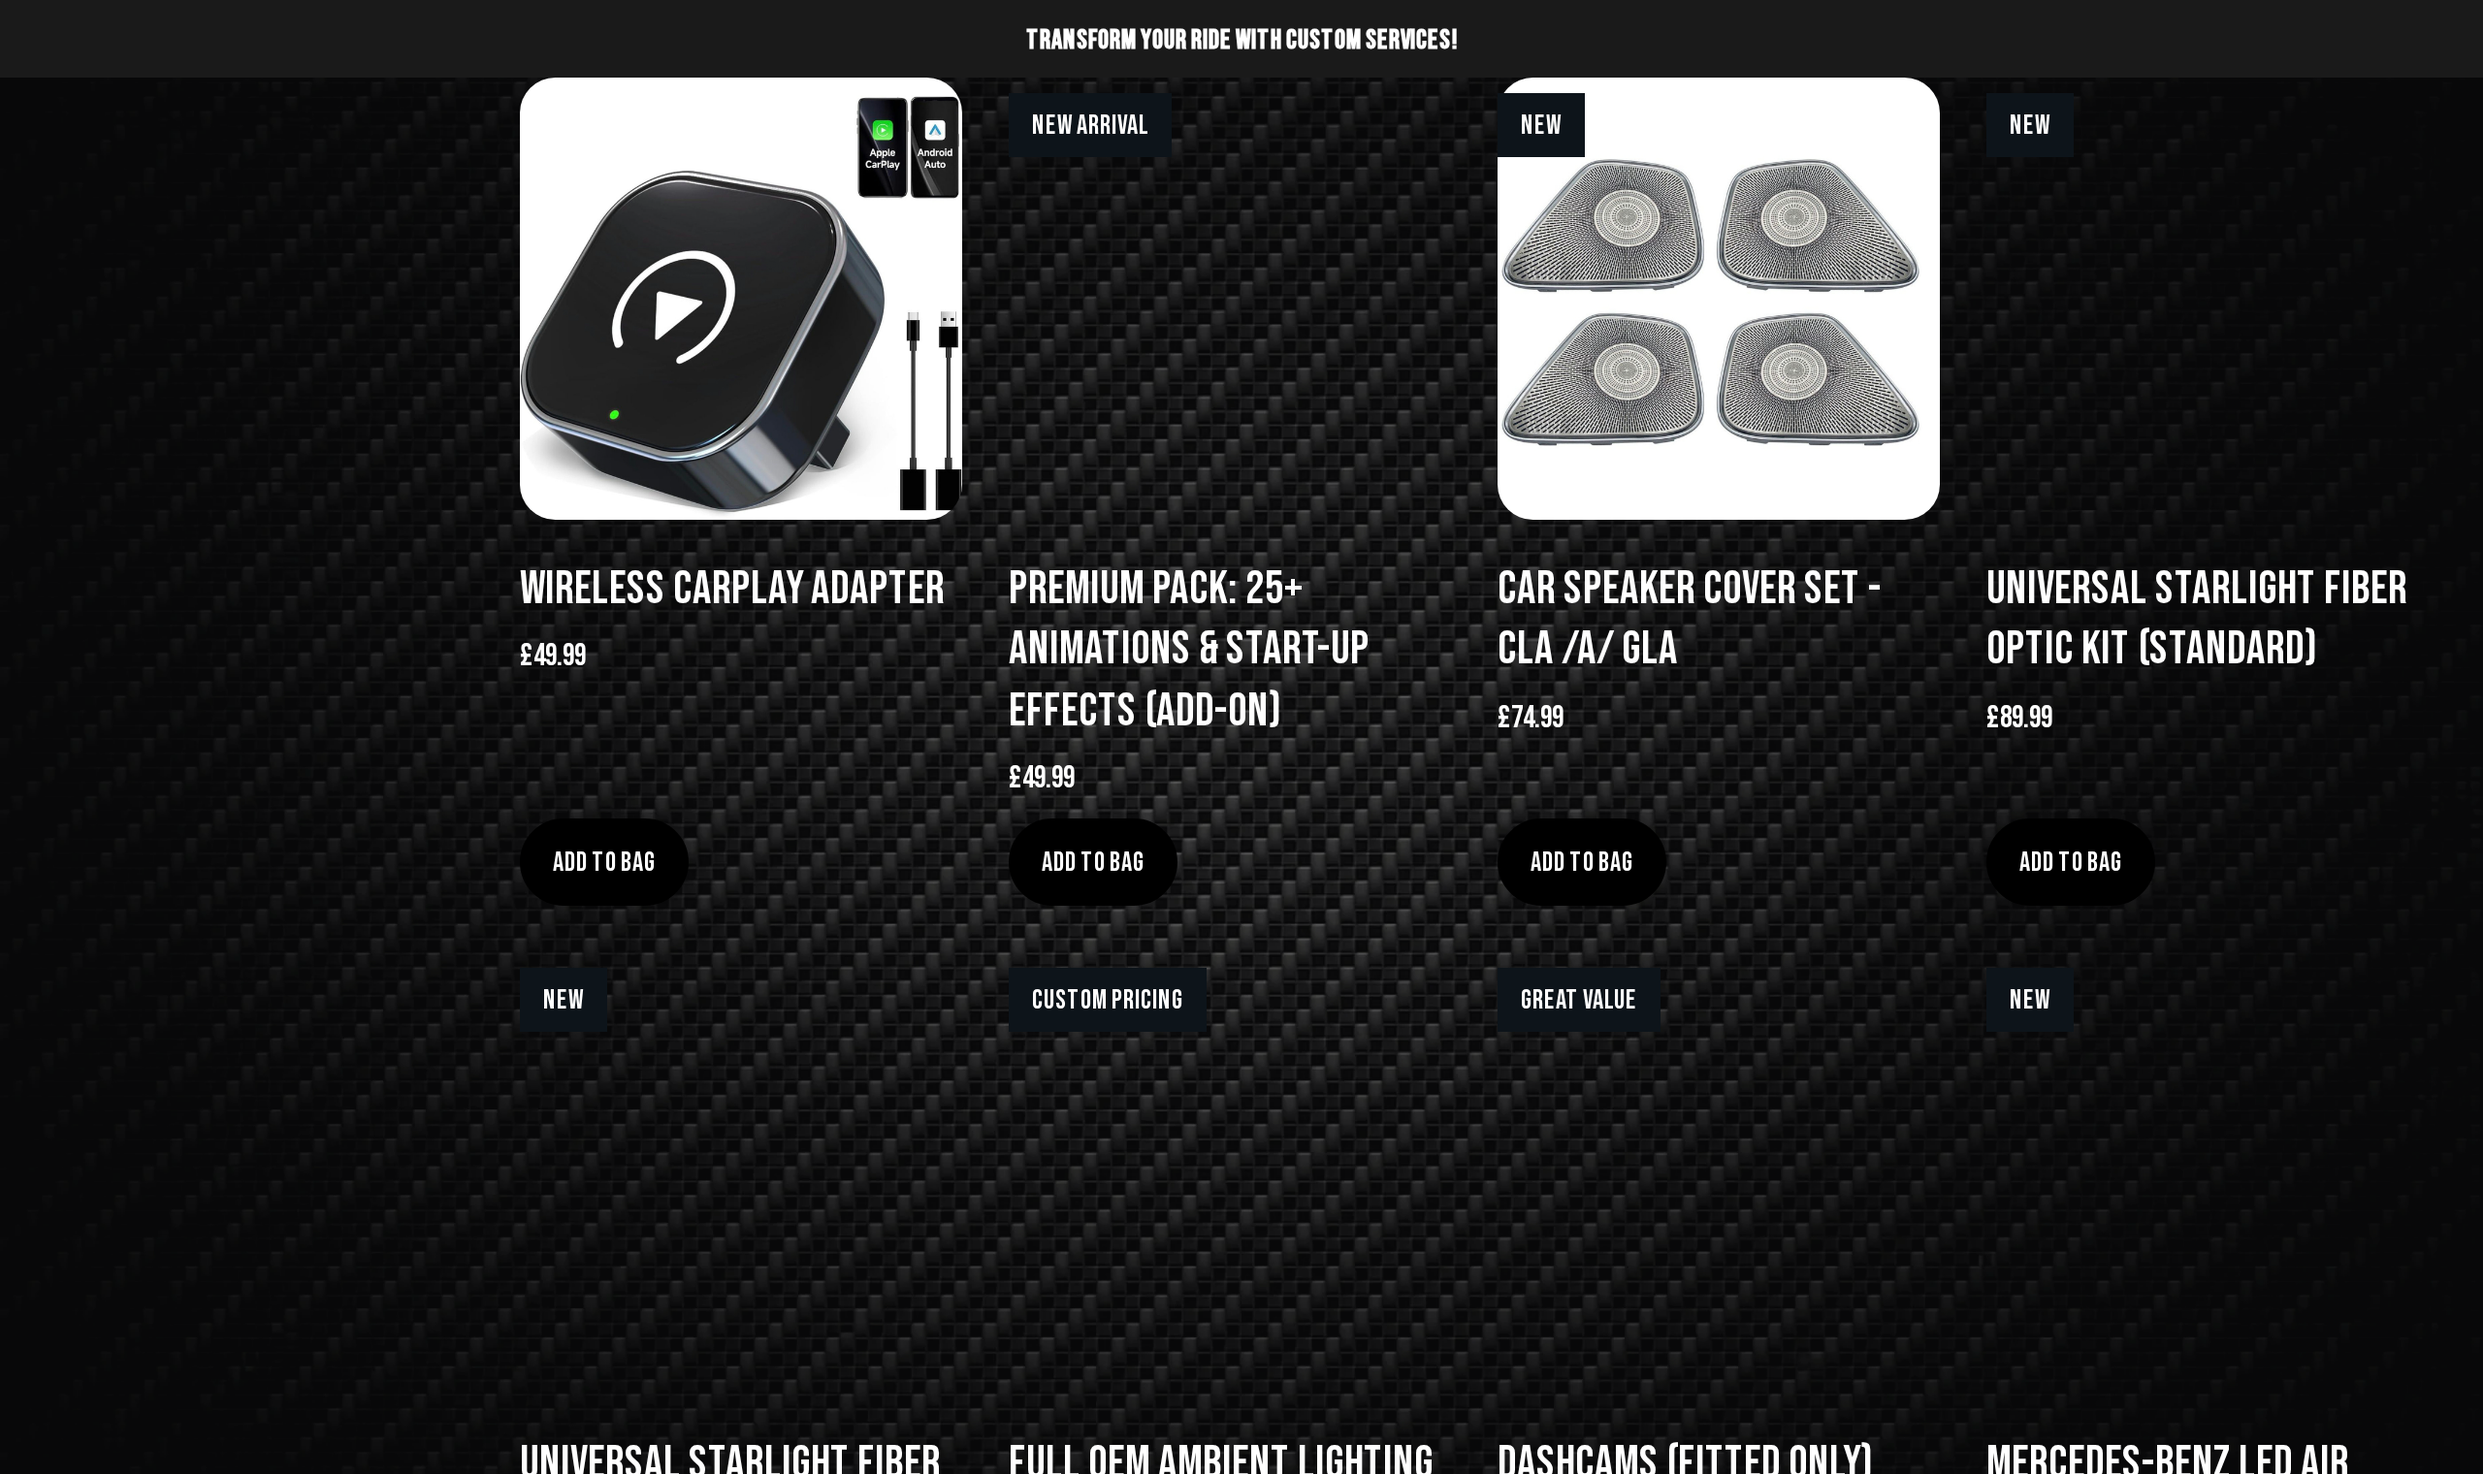
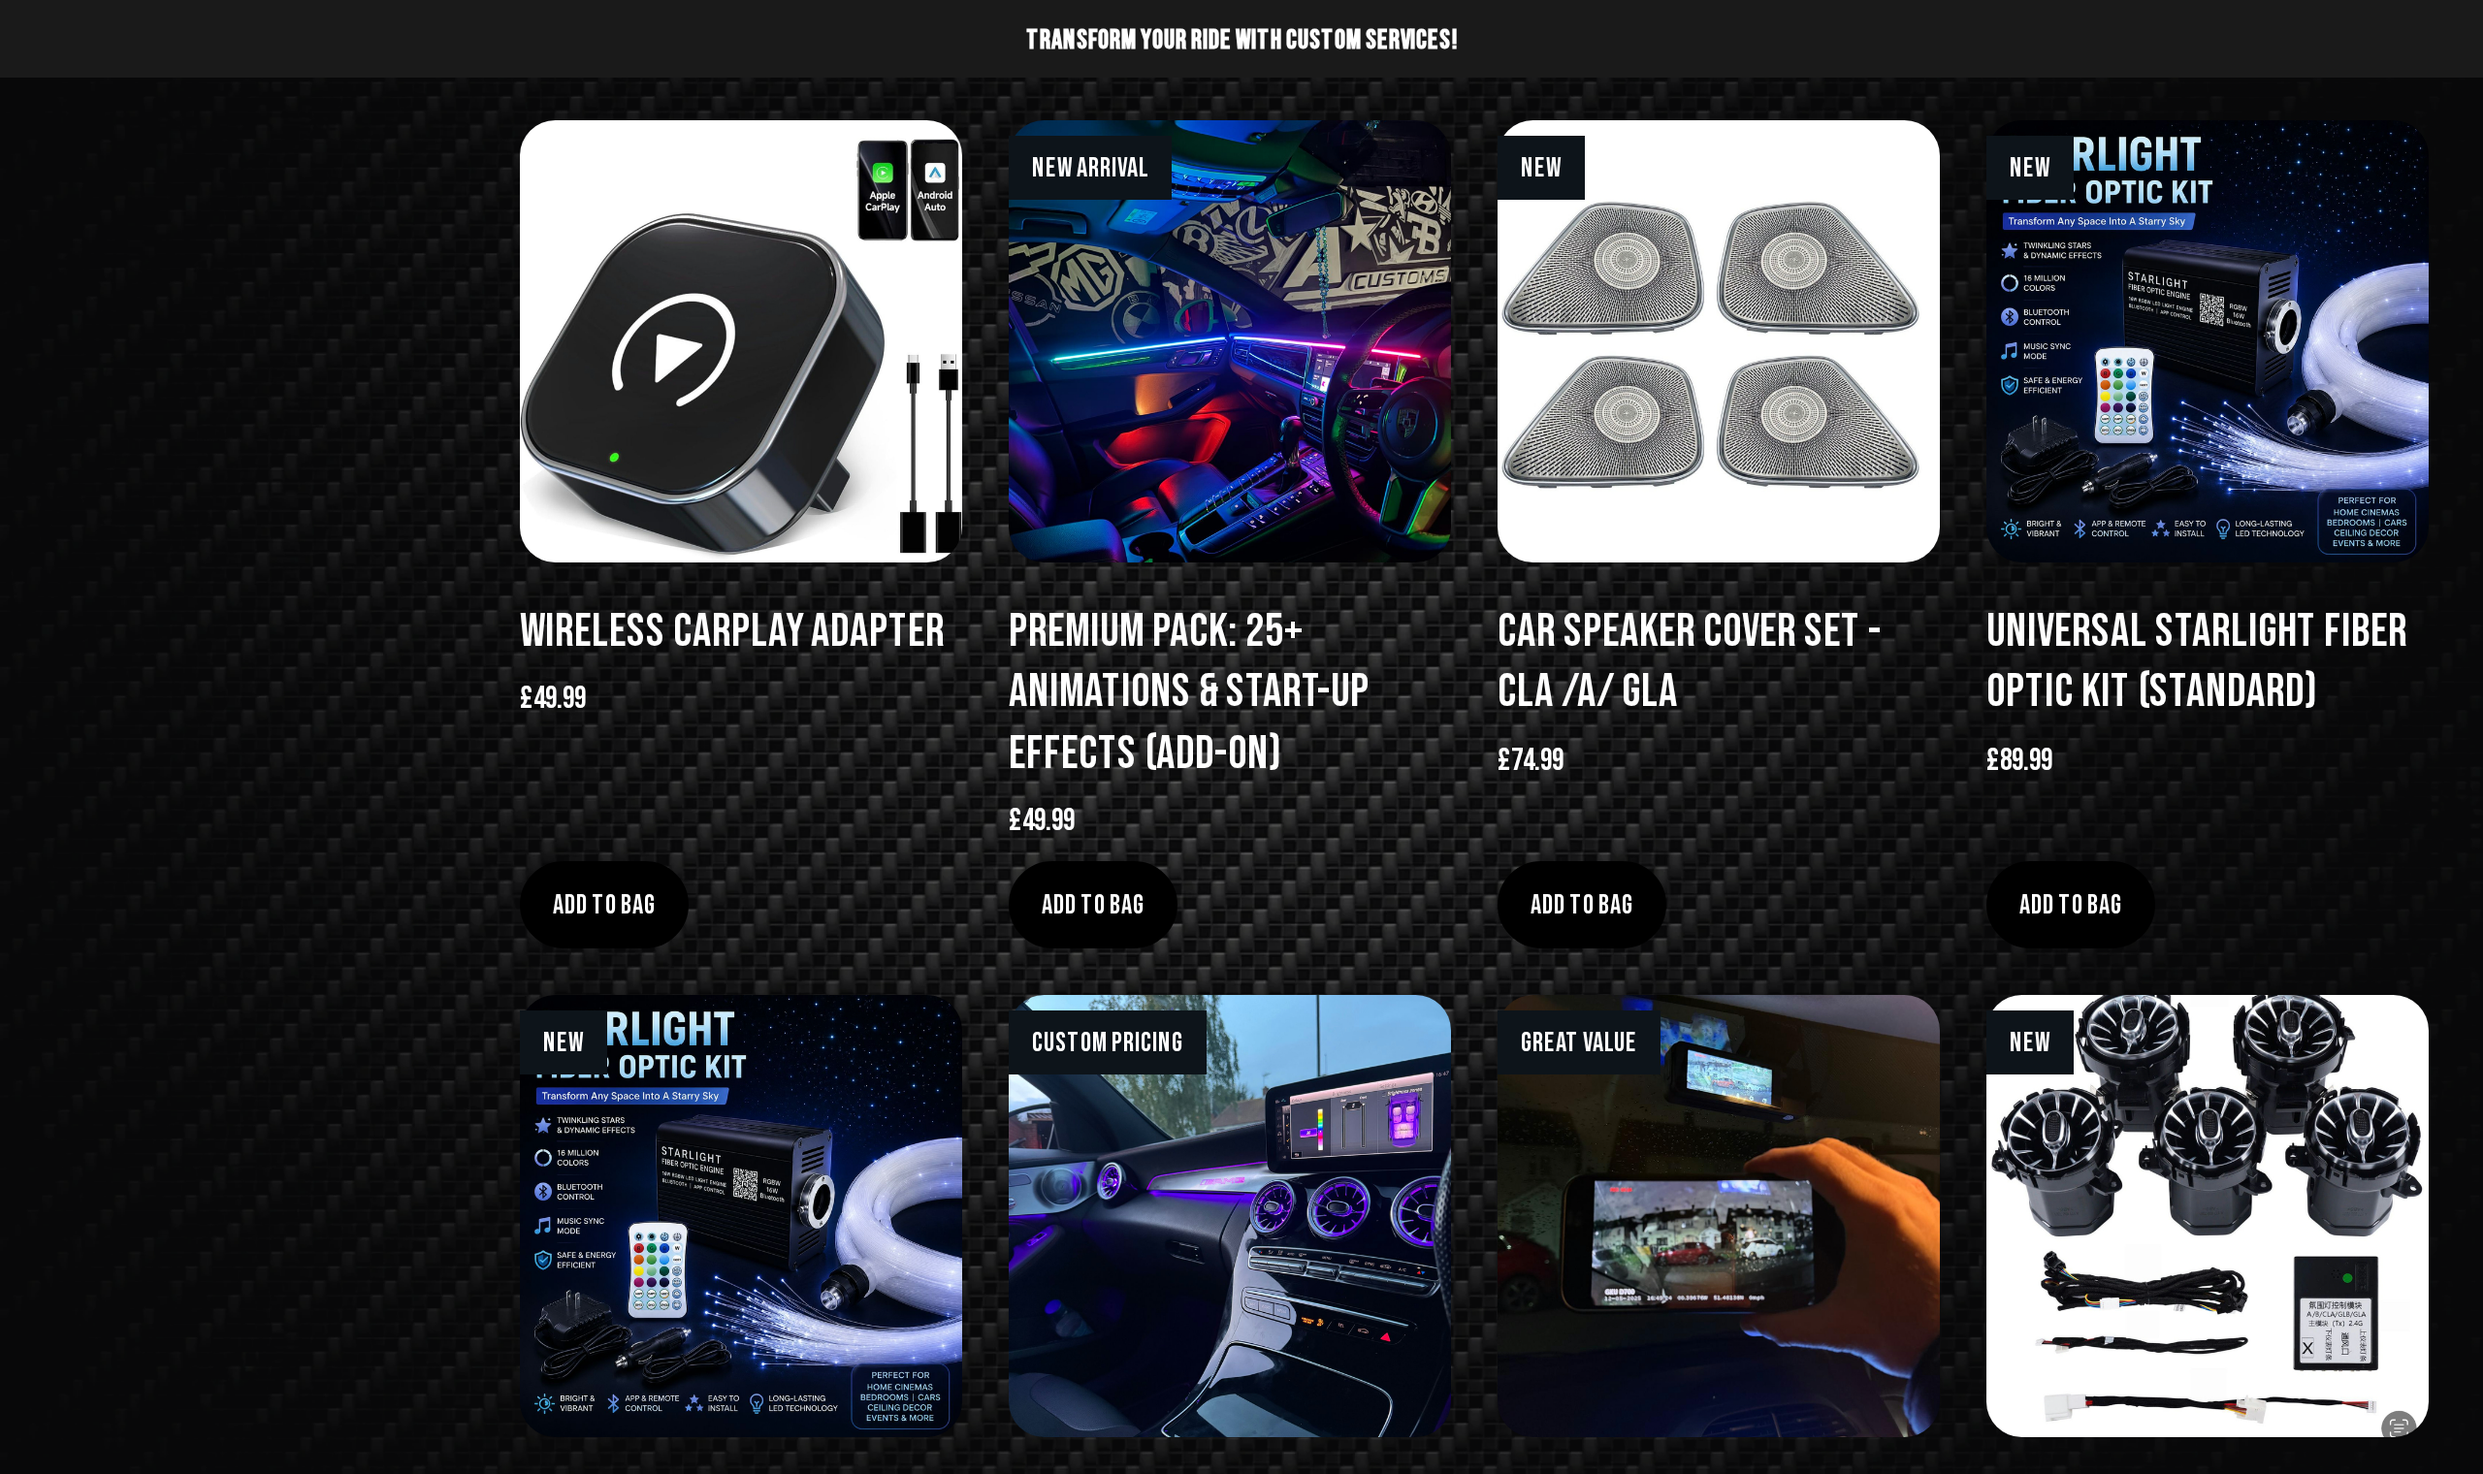
Swap the fourth A Star shot to the services page
The custom-kits capture framed three product titles and prices on a flat
carbon-fibre ground with no product imagery, then ran into the contact block.
It was the weakest of the ten by some distance.

The services page carries three real service cards with photography, which is
what that slot is for.

Changed region(s): [[0.1875, 0.0309, 1.0, 1.0], [0.8125, 0.5566, 0.875, 0.6184]]

diff --git a/lib/content.ts b/lib/content.ts
@@ -258,7 +258,7 @@ export const clients = [
       { src: '/work/astar-1.png', alt: 'A Star Customs home page', label: 'Home' },
       { src: '/work/astar-2.png', alt: 'A Star Customs shop with products for sale', label: 'Shop' },
       { src: '/work/astar-3.png', alt: 'A Star Customs gallery of completed builds', label: 'Gallery' },
-      { src: '/work/astar-4.png', alt: 'A Star Customs custom kits page', label: 'Custom kits' },
+      { src: '/work/astar-4.png', alt: 'A Star Customs services page showing screen upgrades, star lights and ambient lighting', label: 'Services' },
     ],
     detail: [
       'Storefront built from scratch for the brand',
